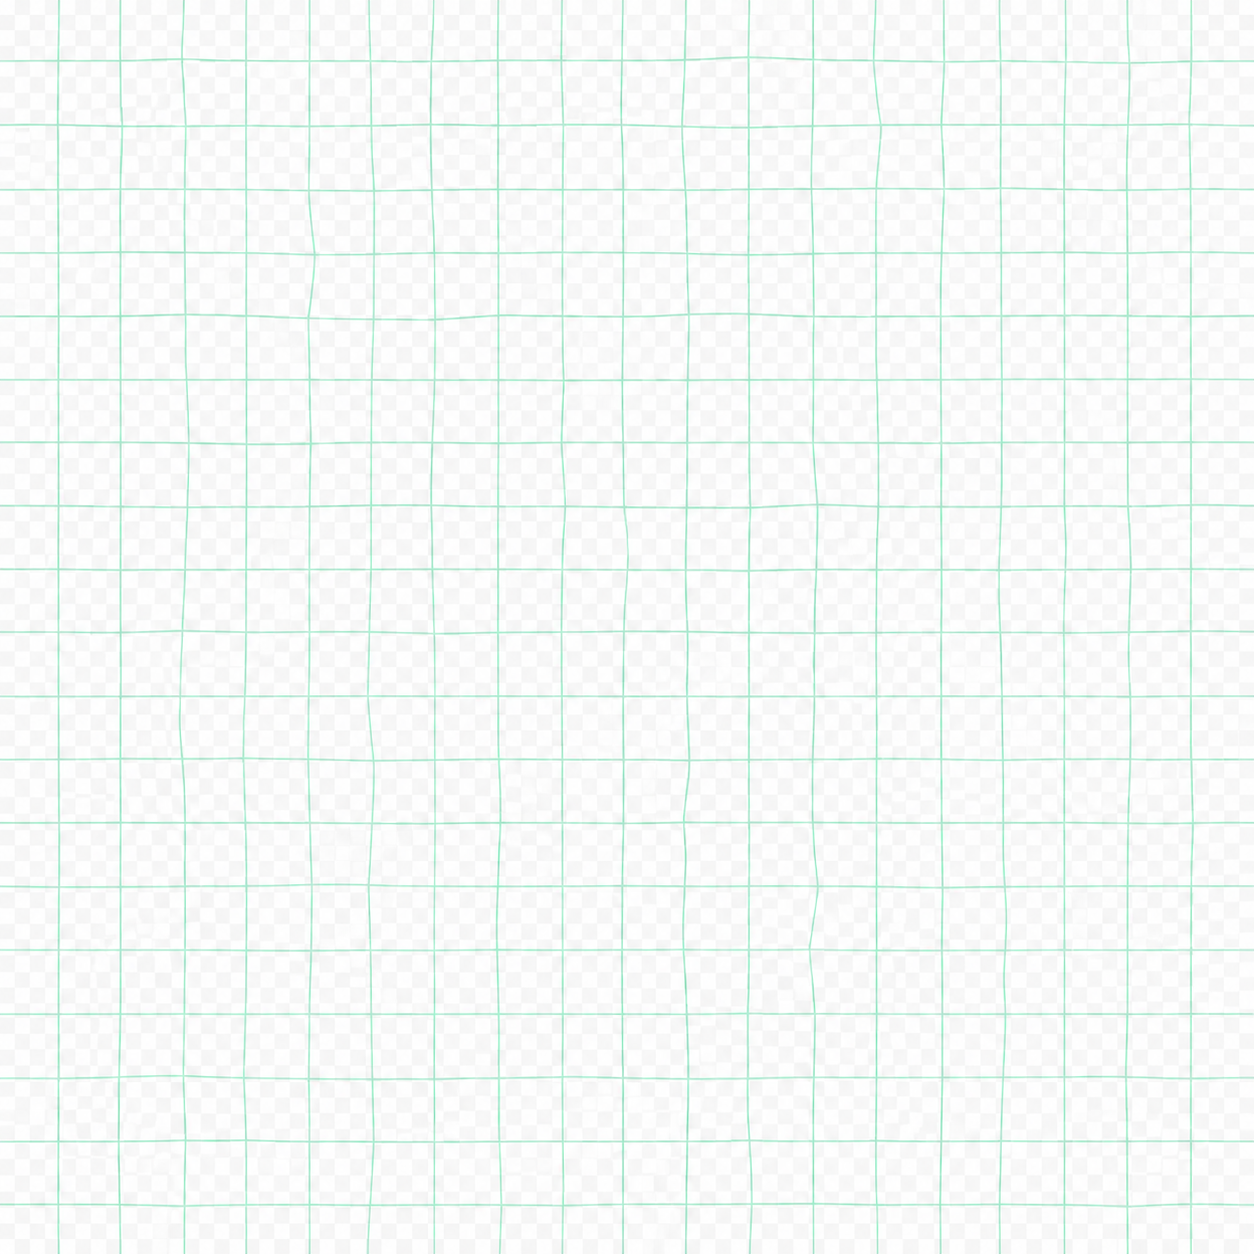
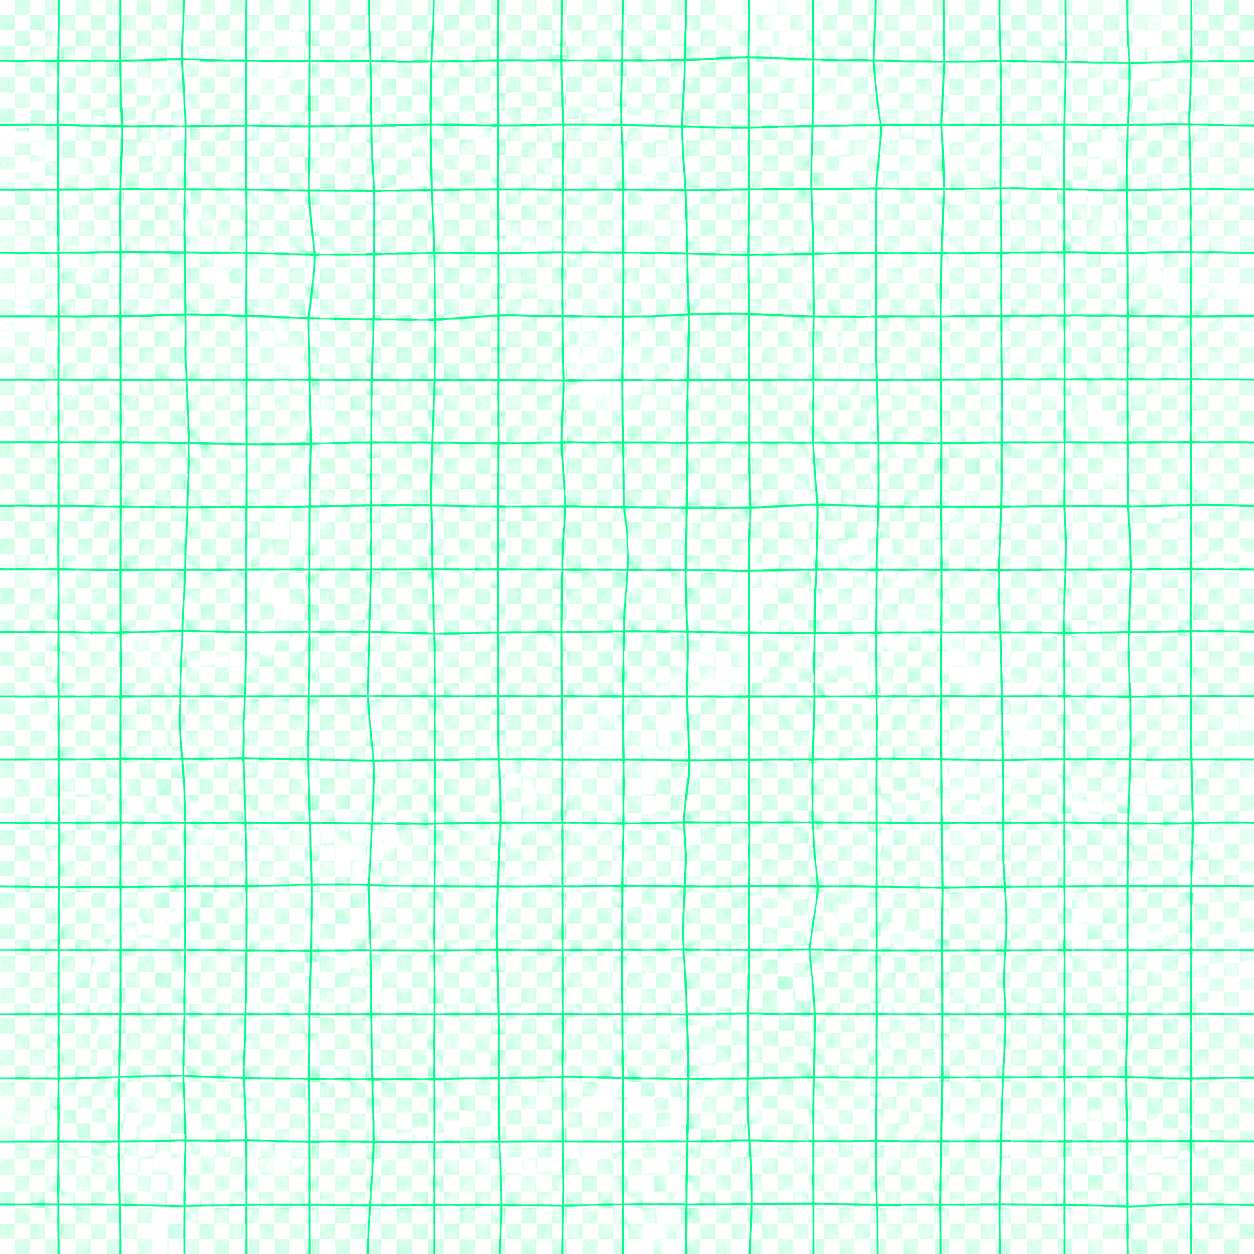
Fix grid textures: remove white background and colorize to theme green
White backgrounds removed via ImageMagick threshold+alpha extraction.
Grid lines colorized to #00ff88. Removed screen blend mode since
textures now have proper transparency.

Changed region(s): [[0.0, 0.0, 1.0, 1.0]]

diff --git a/app/tanpen4/page.tsx b/app/tanpen4/page.tsx
@@ -26,9 +26,8 @@ function GridBackground({ broken = false }: { broken?: boolean }) {
         fill
         className="object-cover"
         style={{
-          opacity: broken ? 0.15 : 0.25,
+          opacity: broken ? 0.4 : 0.5,
           transform: broken ? "skewX(-2deg) skewY(1deg)" : "none",
-          mixBlendMode: "screen",
         }}
         sizes="100vw"
         priority={!broken}